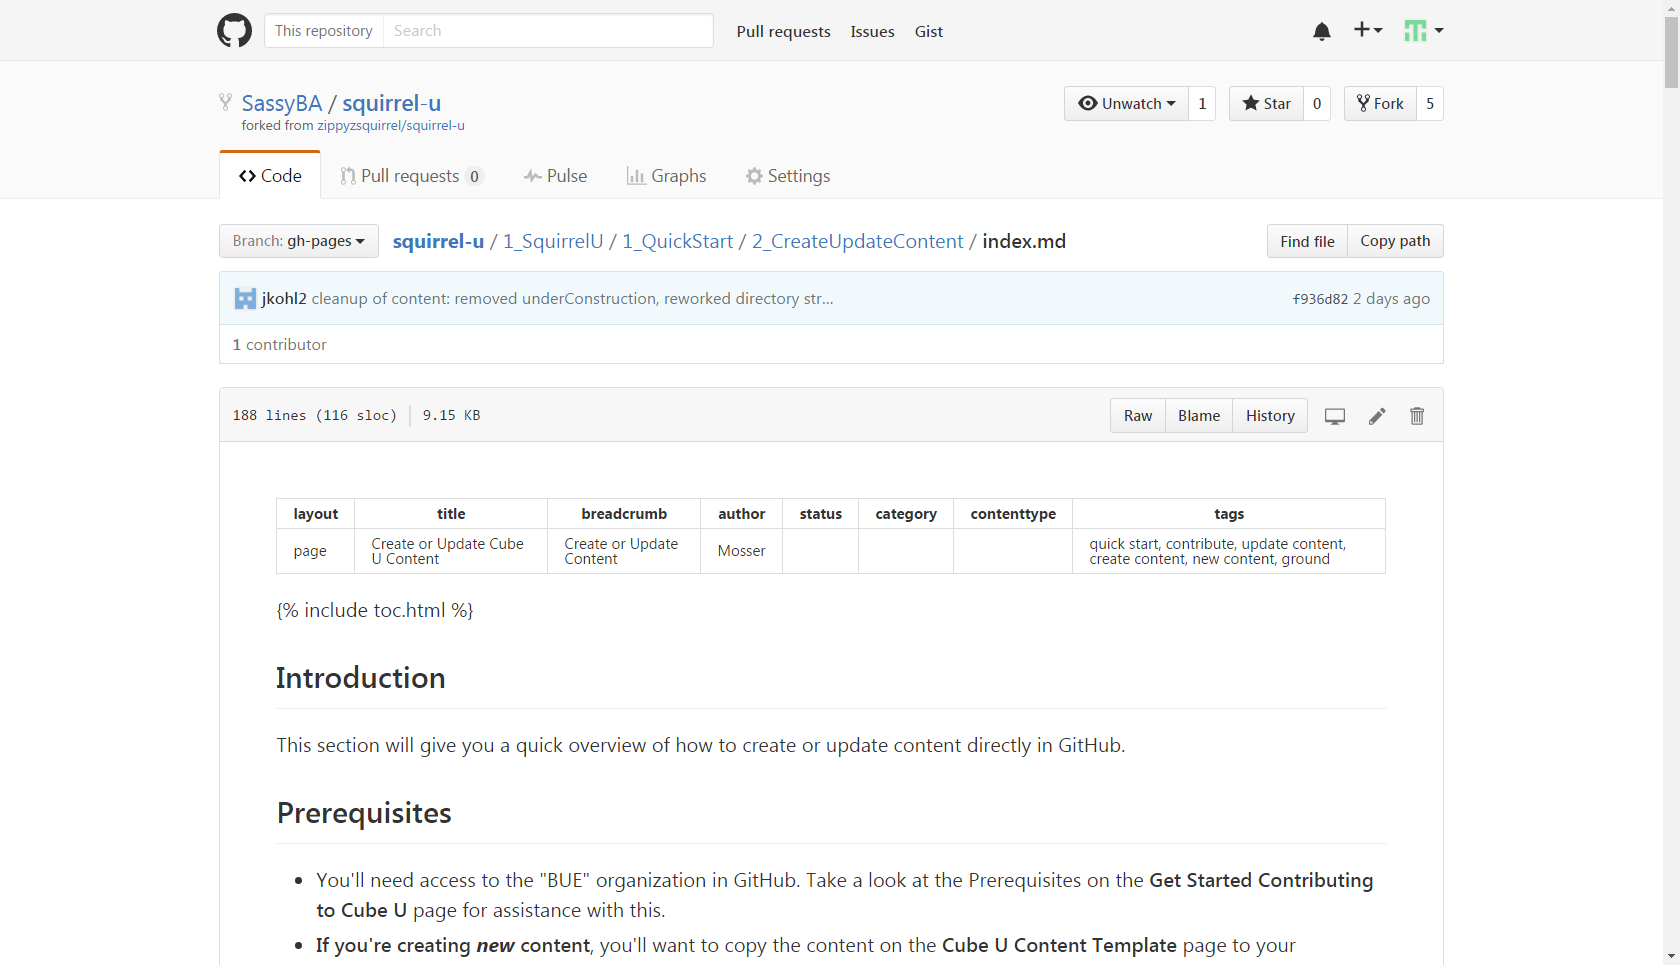
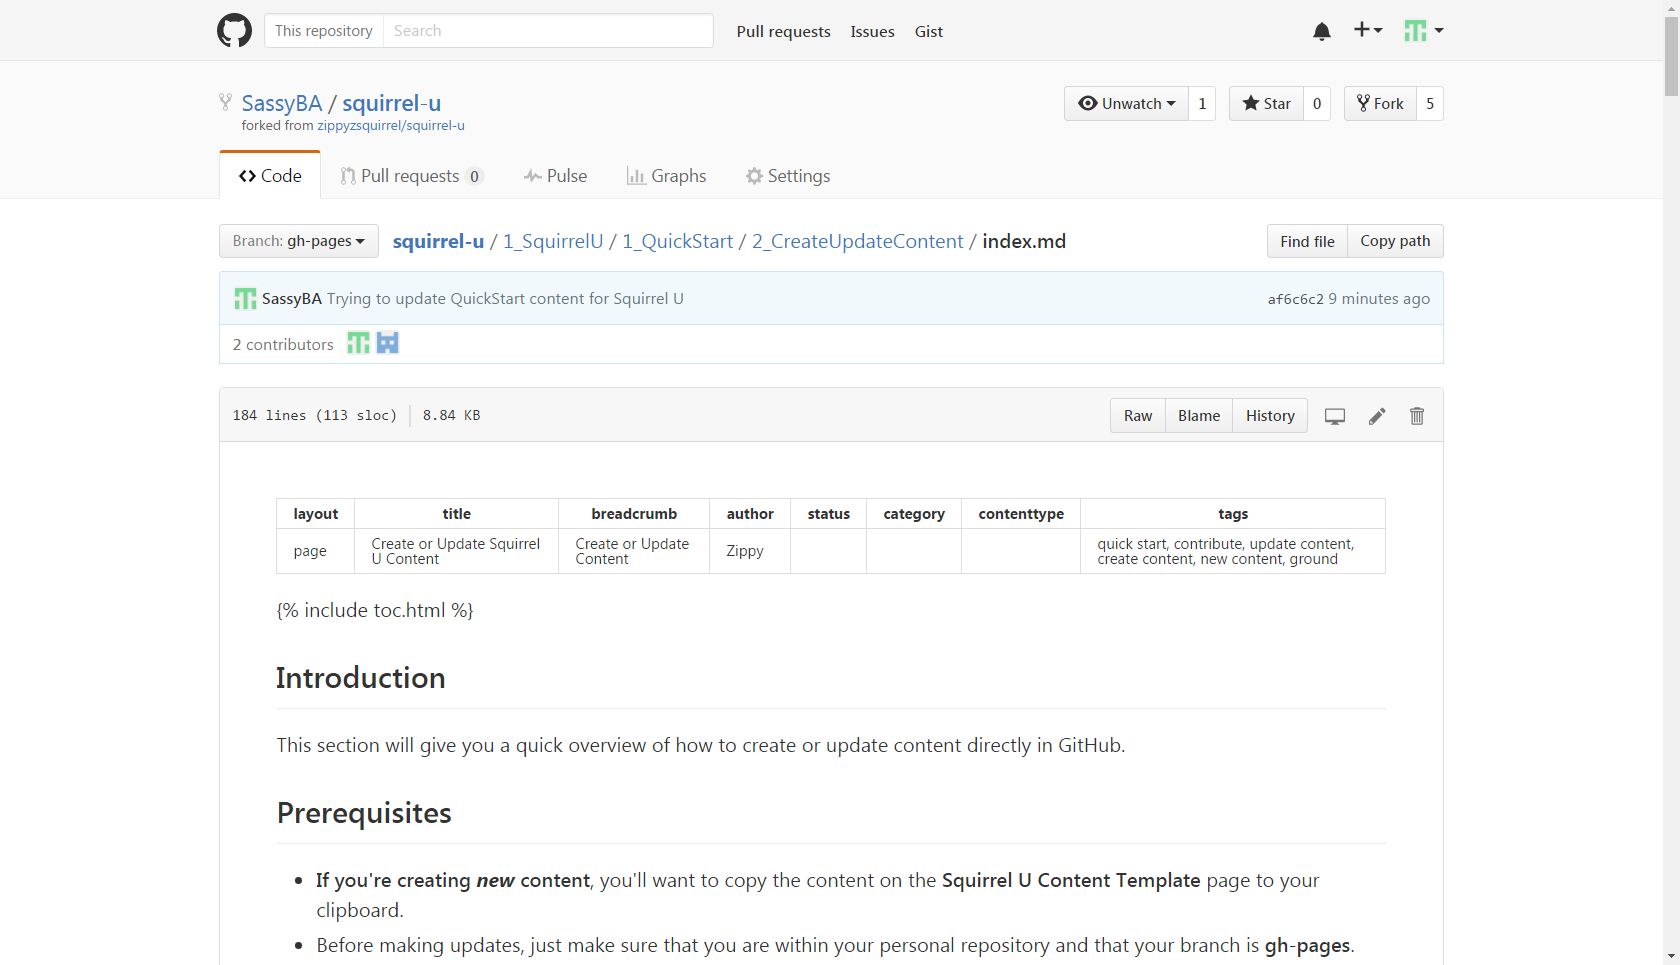
Updating Create or Update content for Squirrel U

diff --git a/1_SquirrelU/1_QuickStart/2_CreateUpdateContent/index.md b/1_SquirrelU/1_QuickStart/2_CreateUpdateContent/index.md
@@ -21,14 +21,12 @@ This section will give you a quick overview of how to create or update content d
 * Before making updates, just make sure that you are within your personal repository and that your branch is
 **gh-pages**.
 
-![](../images/forkedRepo.png){: .image}
-
 ## Update Existing Content
 
 1. Remember that the Squirrel U repository is just a file system like any other. To update existing content, simply navigate to
 the file containing the content that you would like to update.
 
-    In the example below, we've navigated to the "Create or Update Content" page of Squirrel U.
+    In the example below, we've navigated to the "Create or Update Squirrel U Content" page of Squirrel U.
 
     Click the **Edit** icon (looks like a pencil) to change your view to edit mode.
 
@@ -37,38 +35,35 @@ the file containing the content that you would like to update.
     **Not familiar with Markdown?**  Markdown is a very simple markup language that provides the ability to write plain text
     content for web pages. Visit the **Markdown Overview** page for more information.
 
-    ![](images/EditContent.png){: .image}
+    ![](images/contentPage.png){: .image}
 
 ## Create New Content
 
 **STOP!** Before you create new content, ask yourself, "Does this content already exist?" One of the main objectives of Squirrel U
 is to create a single source of truth for the knowledge contained within.  Make sure you have done your research in determining
 if there is already content in Squirrel U related to the material you would like to add. It may be possible that all you need to do is
-edit or enhance a document that is already out there. Ask your team mates, subject matter experts and/or the DevOps team if you think
-that your content may already exist somewhere in Squirrel U.
+edit or enhance a document that is already out there.
 
 1. Remember that the Squirrel U repository is just a file system like any other. To create new content, simply navigate to
 the location where you would like to create or upload a file or create a directory.
 
     **To create a new file**
 
-    Click the **+** (plus) icon at the end of your current file path to add a new file in that directory.
+    Click the **Create new file** icon to add a new file in that directory.
 
-    ![](images/CreateNewFile.png){: .image}
-
-    ![](images/CreateYourContent.png){: .image}
+    ![](images/forkedRepo.png){: .image}
 
     **To create a new directory**
 
     Follow the instructions to create a file, but add a forward slash (/) after the title.
 
-    **To upload a new file** (Not available at this time. We are waiting for an update to GitHub Enterprise version 2.6)
+    **To upload a new file**
 
-    Use the **Upload** button to locate the file on your machine and commit to your fork
+    Use the **Upload files** button to locate the file on your machine and commit to your fork
 
-    ![](images/UploadFileButton.png){: .image}
+    ![](images/forkedRepo.png){: .image}
 
-    ![](images/ChooseFileAndCommit.png){: .image}
+    ![](images/commit.png){: .image}
 
 2. You're ready to create your content! Just give your file a name and paste the content template you copied in the prerequesites.
 Use the template as a guide to complete your content with Markdown (and *only* Markdown to maintain site consistency).
@@ -86,29 +81,16 @@ you want to make about the your commit.
 Make sure the **Commit directly to the gh-pages branch** radio button is selected and click **Commit changes** when you're ready. You
 can also trash your changes by clicking **Cancel** if you'd like.
 
-![](images/CommitYourChanges.png){: .image}
+![](images/commit.png){: .image}
 
 ## Test Your Rendered Content
 
 Before you're ready to request approval on your changes, you'll want to see how they will look in Squirrel U. *Always* test your changes
 before submitting your content for approval.
 
-It's very easy to see this!  Just add "/pages" between ".com" and your username in the URL (i.e. https://github.gaig.com/pages/mZippy/CubeU/).
+It's very easy to see this!  Go to your fork of the rendered site...https://yourUsername.github.io/squirrel-u/
 
 Viola! Your personal repository is displayed as the Squirrel U website! Check out your content and see what it looks like!
-
-![](images/TestYourContent.png){: .image}
-
-**Something not right? Do you need to make another update to your content before requesting approval?**
-
-No problem! While you're within your personal repository's rendered content, just click the **Edit** icon (looks like a pencil)
-in the upper, right corner of the content page.  You'll be redirected right into the edit mode of your content in GitHub.
-
-![](images/CubeUEditButton.png){: .image}
-
-From there, you can make your changes and commit as needed and repeat this process until you're happy with everything.
-
-![](images/MakeChanges.png){: .image}
 
 **Test Your Tagging**
 
@@ -123,29 +105,21 @@ See the "Tags" section of **Front Matter Overview** for more information on the 
 ## How to Keep Your Fork Up to Date
 
 Throughout the entire content contribution process, it is absolutely critical that you keep your
-fork up to date with the BUE/CubeU repository. This will help to avoid merge conflicts and ensure that you are always
+fork up to date with Zippy's repository. This will help to avoid merge conflicts and ensure that you are always
 working with the most recent changes to Squirrel U.
 
 1. Make sure you are on your personal fork and in the gh-pages branch. Next to the branch drop-down, click the green button
 to "compare branches".
 
-    ![](images/compareCreatePR.png)
-
 2. Click the "compare across forks" link
 
-    ![](images/selectCompareAcrossForks.png){: .image}
+3. Change the left repository **base fork** to *your* forked repository.  The right repository **head fork** should remain
+set to Zippy's (*both* branches should be set to "gh-pages)"
 
-3. You will see the **base fork** and **head fork** default to the BUE/CubeU repository
-
-    ![](images/defaultComparison.png){: .image}
-
-    Change the left repository **base fork** to *your* CubeU repository fork.  The right repository **head fork** should remain
-    set to BUE/CubeU (*both* branches should be set to "gh-pages)"
-
-    ![](images/changeBaseToYourBranch.png){: .image}
+    ![](images/compareChanges.png){: .image}
 
 4. If you see "There isn't anything to compare" displayed and you're sure that the base and head forks are set correctly, this
-means that your fork is already up-to-date with BUE and there are no changes for you to pull.
+means that your fork is already up-to-date with Zippy's and there are no changes for you to pull.
 
     Otherwise, click on the **Create pull request** button.
 
@@ -154,26 +128,8 @@ means that your fork is already up-to-date with BUE and there are no changes for
 **I need to start all over, but I've committed changes.  What do I do?**
 
 As long as you don't want to keep any of the changes (commits) you've made, you can just delete your fork and create a new one
-from BUE: gh-pages.  This will give you a fresh, current copy of the "official" Squirrel U content. Follow the instructions in the
+from Zippy's repo.  This will give you a fresh, current copy of the "official" Squirrel U content. Follow the instructions in the
 "How to Delete a Fork" section of the **Create (Fork) Your Copy of Squirrel U** page.
-
-**What if my work is in progress? Should I still put it in Squirrel U or wait until it's finalized?**
-
-Squirrel U is still the best place for content that is a work in progress. The great thing about working in GitHub is that others can
-view the content on your personal fork and give feedback on your draft before it ever goes to the "official" Squirrel U site. The
-easiest way to share your content is to just send your team mates the URL to the page in question on your personal fork
-(i.e. https://github.gaig.com/pages/mZippy/CubeU/1_CubeU/1_QuickStart/2_CreateUpdateContent/). When they click the link, they'll go straight to that page
-in *your* fork of Squirrel U.
-
-You may also want to consider using the "" status in the Front Matter of your content until the content is finalized.
-**Need help understanding Front Matter?** Take a look at the **Front Matter Overview** page for assistance.
-
-**What if I have no idea where I should put my content?**
-
-If you aren't sure where to put your content, start by asking a team mate or another subject matter expert on the topic. They
-may have valuable input on where your content should go. If your team still is not sure where the best fit is for your content,
-we have created a "Ground" directory in which you can place your content in the meantime. Best placement can be determined
-when you submit your content for approval, based on collaboration with the reviewer.
 
 ## For Further Reading
 

diff --git a/1_SquirrelU/1_QuickStart/1_CopySquirrelU/index.md b/1_SquirrelU/1_QuickStart/1_CopySquirrelU/index.md
@@ -44,7 +44,7 @@ below for instructions on how to do this.
 4. After the Squirrel U repository is done forking to your personal repository, you will be taken to your forked repo...again,
 make sure your  **Branch:** drop-down is set to **gh-pages** before continuing.
 
-    ![](../images/forkedRepo.png){: .image}
+    ![](images/forkedRepo.png){: .image}
 
 **Now you're ready to start creating or updating content!**
 
@@ -79,7 +79,7 @@ update is not necessary because your fork has the same exact content as Zippy's.
 or Pull Requests. To get up-to-date, follow the steps outlined in the "Keeping Your Fork Up-to-Date" section in the **Create or
 Update Squirrel U Content** page.
 
-![](images/zippyRepo.png){: .image}
+![](images/forkedRepo.png){: .image}
 
 ## For Further Reading
 
